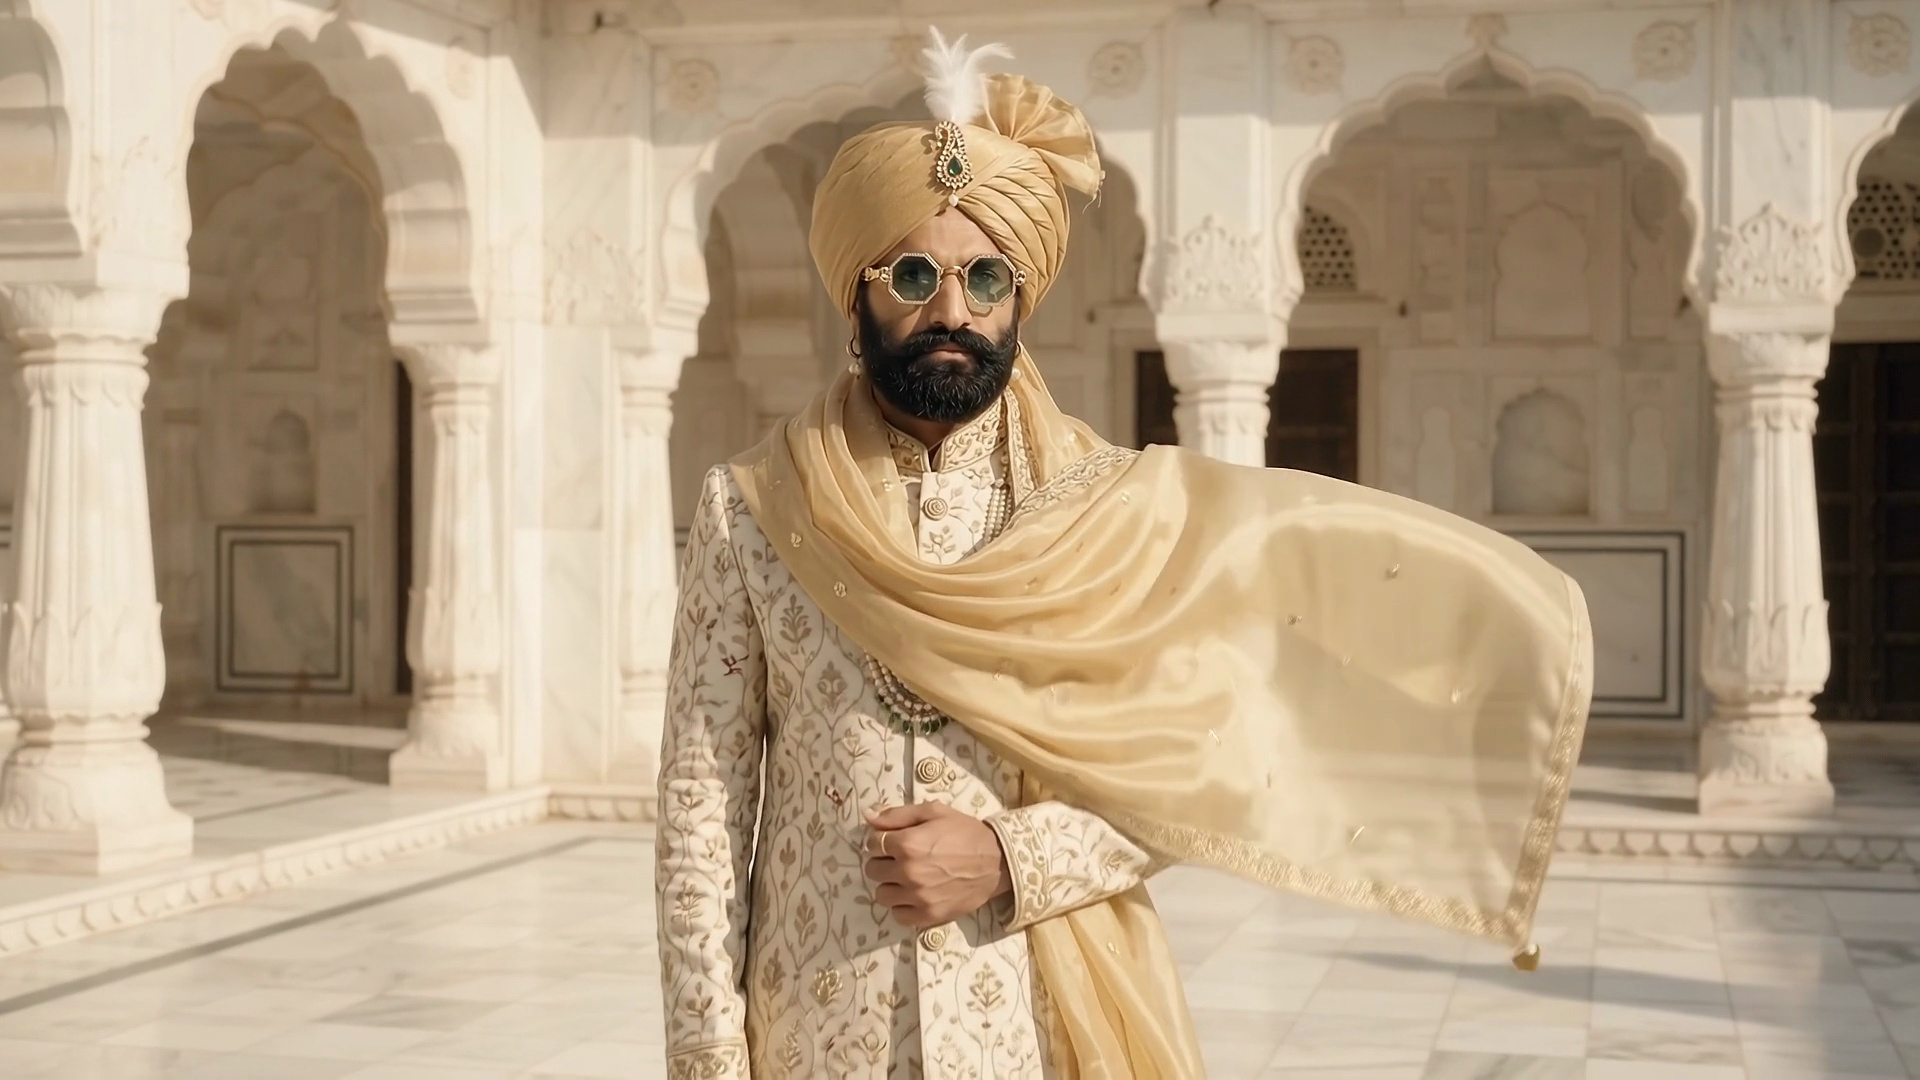
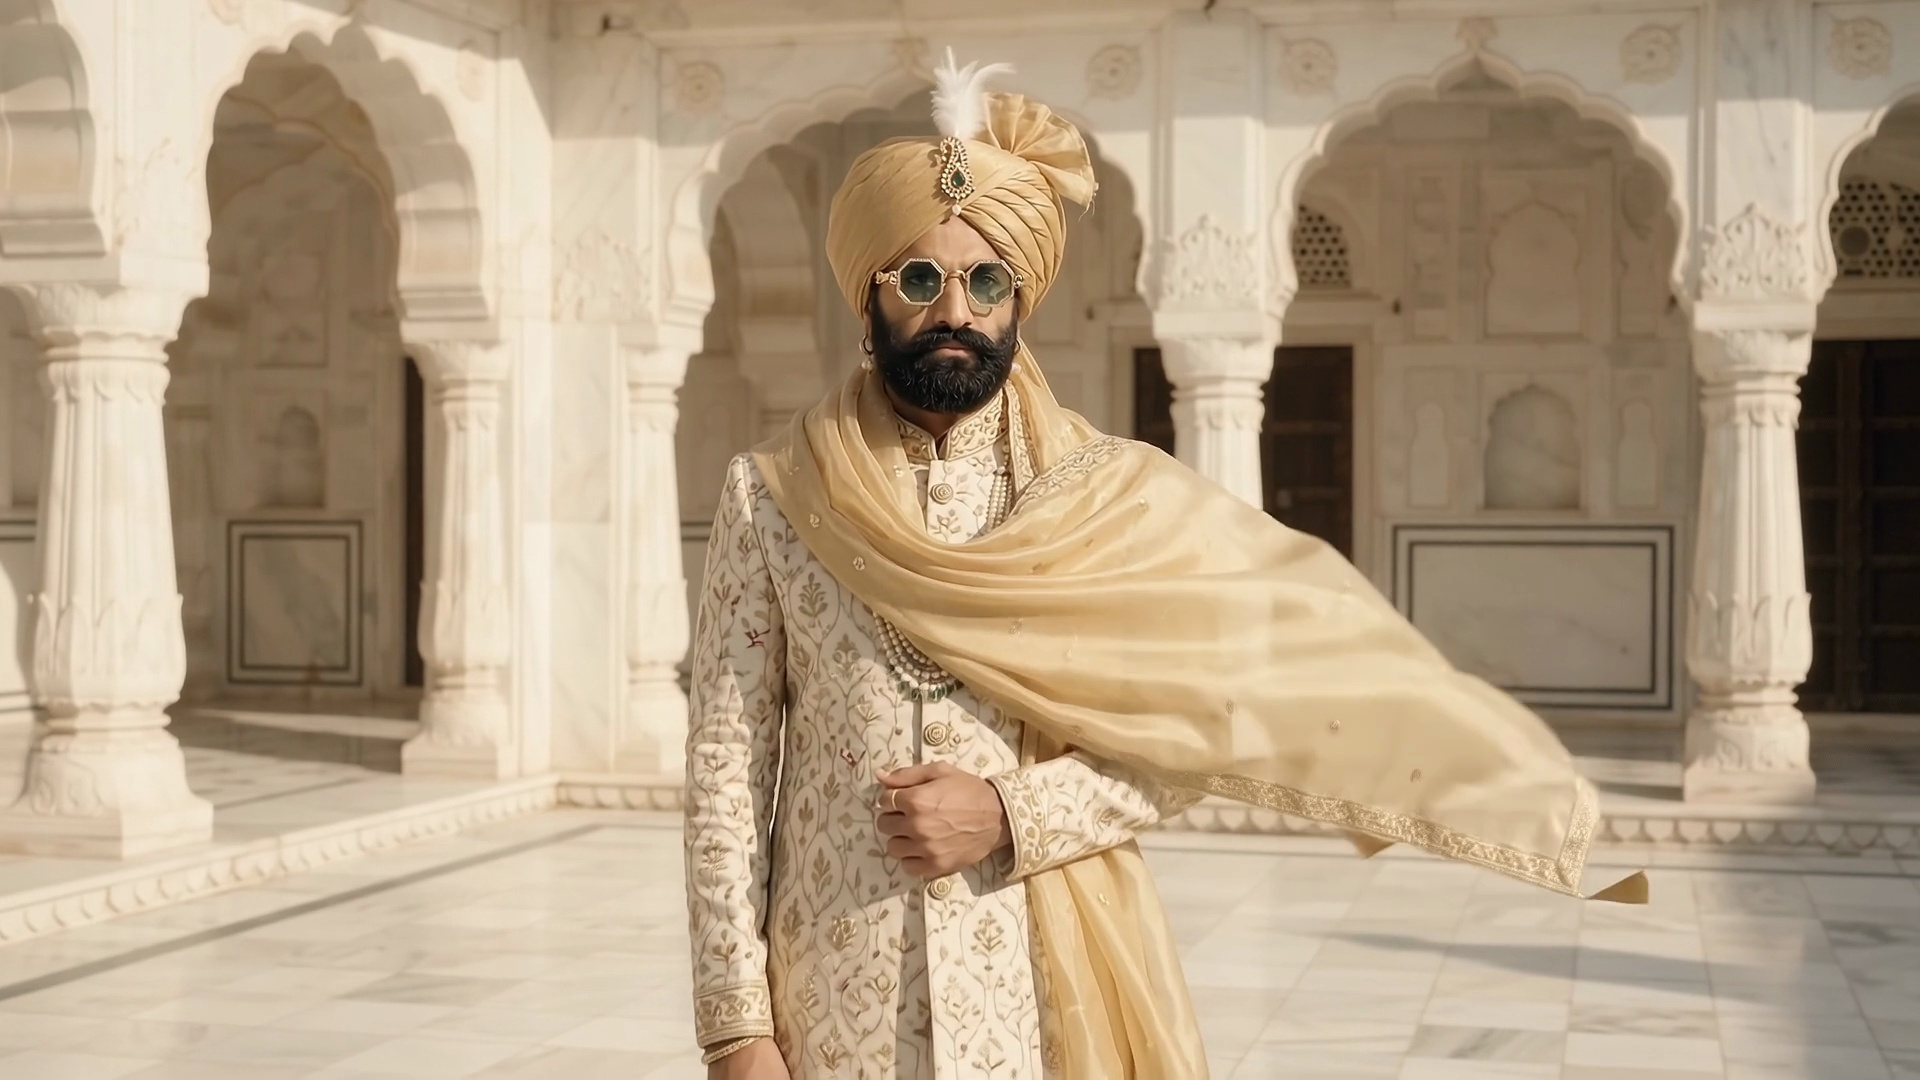
fix: eliminate legacy poster screenshot, play WhatsApp video, Masquerade video, and Maharaja video ONLY

diff --git a/client/src/__tests__/collections.test.ts b/client/src/__tests__/collections.test.ts
@@ -3,9 +3,10 @@ import { COLLECTIONS, COLLECTION_ORDER } from "../data/collections";
 
 describe("ICON LIVIN Dedicated Collections Specification", () => {
   it("should contain the active collections in COLLECTION_ORDER", () => {
-    expect(COLLECTION_ORDER).toEqual(["barrel", "masquerade"]);
+    expect(COLLECTION_ORDER).toEqual(["barrel", "masquerade", "maharaja"]);
     expect(COLLECTIONS.barrel.title).toBe("THE GUN COLLECTION");
     expect(COLLECTIONS.masquerade.title).toBe("THE MASQUERADE");
+    expect(COLLECTIONS.maharaja.title).toBe("MAHARAJA");
   });
 
   it("should enforce pure white canvas palettes across all collections", () => {
@@ -13,6 +14,8 @@ describe("ICON LIVIN Dedicated Collections Specification", () => {
     expect(COLLECTIONS.barrel.theme.ink).toBe("#000000");
     expect(COLLECTIONS.masquerade.theme.bg).toBe("#FFFFFF");
     expect(COLLECTIONS.masquerade.theme.ink).toBe("#000000");
+    expect(COLLECTIONS.maharaja.theme.bg).toBe("#FFFFFF");
+    expect(COLLECTIONS.maharaja.theme.ink).toBe("#000000");
   });
 
   it("should enforce 40-55 word all-caps intro paragraphs", () => {
@@ -28,7 +31,8 @@ describe("ICON LIVIN Dedicated Collections Specification", () => {
 
   it("should form an unbroken collection loop in nextId sequence", () => {
     expect(COLLECTIONS.barrel.nextId).toBe("masquerade");
-    expect(COLLECTIONS.masquerade.nextId).toBe("barrel");
+    expect(COLLECTIONS.masquerade.nextId).toBe("maharaja");
+    expect(COLLECTIONS.maharaja.nextId).toBe("barrel");
   });
 
   it("should provide 4 honest products per collection with materials and prices", () => {

diff --git a/client/src/data/collections.ts b/client/src/data/collections.ts
@@ -165,7 +165,7 @@ export const COLLECTIONS: Record<string, CollectionData> = {
     },
     nextId: "barrel",
     nextName: "THE GUN COLLECTION",
-    nextCampaign: "/campaigns/barrel-poster.jpg",
+    nextCampaign: "/barrel/barrel-campaign.jpg",
   },
 
   masquerade: {
@@ -257,9 +257,9 @@ export const COLLECTIONS: Record<string, CollectionData> = {
       title: "Black Rhodium Obsidian Titanium",
       subtitle: "Concealed Visor Optics & Cabochon Hinge · Drag to Rotate 360°",
     },
-    nextId: "barrel",
-    nextName: "THE GUN COLLECTION",
-    nextCampaign: "/campaigns/barrel-poster.jpg",
+    nextId: "maharaja",
+    nextName: "MAHARAJA",
+    nextCampaign: "/campaigns/maharaja-poster.jpg",
   },
 
   savanah: {
@@ -451,5 +451,5 @@ export const COLLECTIONS: Record<string, CollectionData> = {
   },
 };
 
-export const COLLECTION_ORDER = ["barrel", "masquerade"] as const;
+export const COLLECTION_ORDER = ["barrel", "masquerade", "maharaja"] as const;
 export type CollectionId = (typeof COLLECTION_ORDER)[number];

diff --git a/client/src/components/CheetahBar.tsx b/client/src/components/CheetahBar.tsx
@@ -177,6 +177,14 @@ export default function CheetahBar({ dark = false }: { dark?: boolean }) {
                     >
                       The Masquerade
                     </Link>
+                    <Link
+                      href="/collection/maharaja"
+                      className={`font-sans text-sm transition-all duration-200 hover:translate-x-1 ${subtextClass} ${
+                        location === "/collection/maharaja" ? "font-medium underline underline-offset-4" : ""
+                      }`}
+                    >
+                      The Maharaja
+                    </Link>
                   </motion.div>
                 )}
               </AnimatePresence>

diff --git a/client/src/pages/Home.tsx b/client/src/pages/Home.tsx
@@ -131,7 +131,6 @@ export default function Home() {
               loop
               muted
               playsInline
-              poster={col.campaign}
               className={`absolute inset-0 h-full w-full object-cover object-center filter brightness-[0.75] contrast-[1.1] transition-opacity duration-1000 ease-in-out pointer-events-none ${
                 isActive ? "opacity-100" : "opacity-0"
               }`}

diff --git a/client/src/pages/CollectionDetail.tsx b/client/src/pages/CollectionDetail.tsx
@@ -150,7 +150,6 @@ export default function CollectionDetail() {
           muted
           loop
           playsInline
-          poster={collection.campaign}
           className="w-full h-full object-cover object-center pointer-events-none filter brightness-[0.85] contrast-[1.08]"
         >
           <source src={collection.video} type="video/mp4" />
